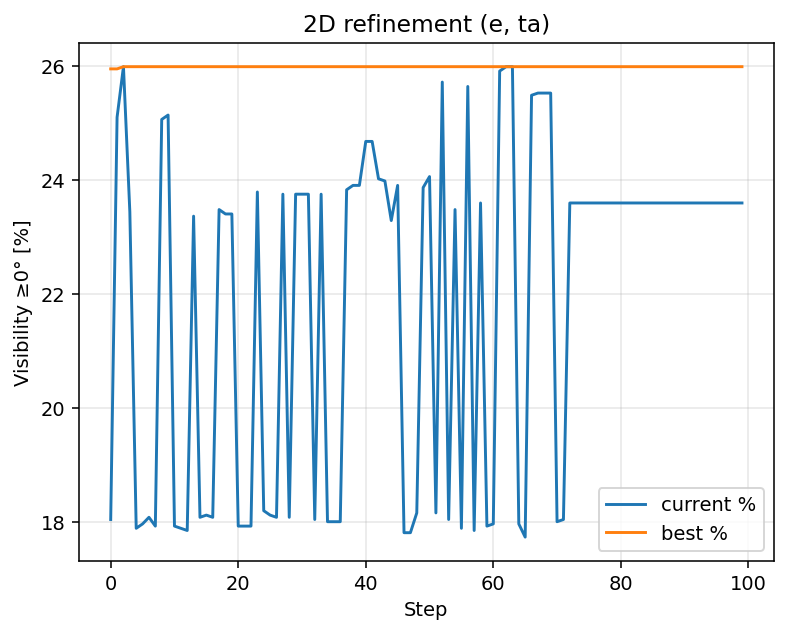
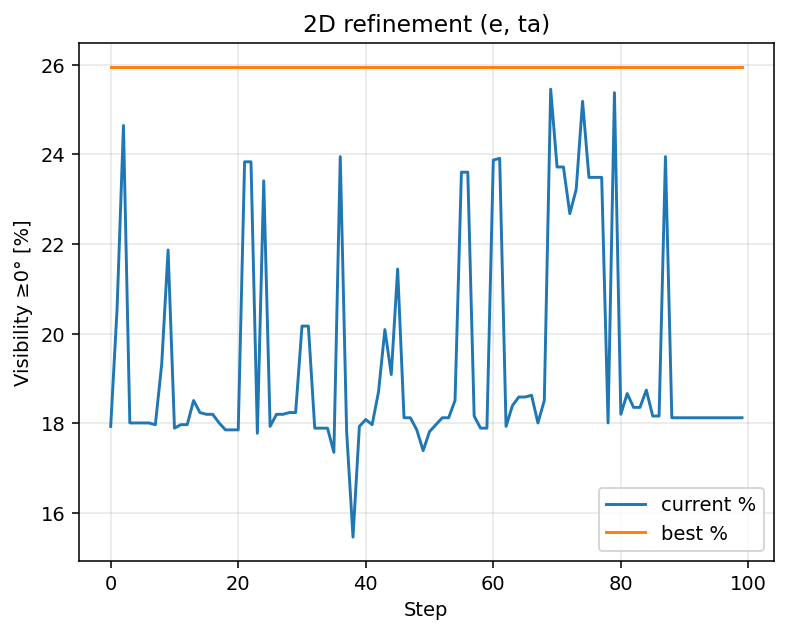
Everything works. Poor convergeance

diff --git a/search/main2.py b/search/main2.py
@@ -23,25 +23,6 @@ def main():
     opt = VisibilityOptimiser(sim)
 
     print("Optimising visibility for Sydney ground station...")
-    # A compact grid near ~100 trials:
-    # best, all_results = opt.optimize_grid(
-    #     gs_key="Sydney",
-    #     rp_range=(6000, 7500),  # rp in km above Earth radius
-    #     ra_range=(7500, 7500),  # ra in km above Earth radius
-    #     ta_range=(0, 360),      # true anomaly in degrees
-    #     raan_range=(-180, 180), # RAAN in degrees
-    #     inc_range=(30, 90),     # inclination in degrees
-    #     n_rp=10, 
-    #     n_ra=1,      # rp/ra grid (≈ choose 2 = 10 valid pairs when ra>rp)
-    #     n_ta=5,              # 2 true anomalies
-    #     n_raan=5,            # 2 RAAN samples
-    #     n_inc=3,             # 0°, 180° by default (adjust as needed)
-    #     max_orbits=1000,      # cap just in case
-    #     min_elev_deg=0,
-    #     key_prefix="G",
-    #     progress=True,
-    #     verbose=True,
-    # )
 
     # best, all_results = opt.optimize_grid(
     #     gs_key="Sydney",            # your GS key
@@ -58,44 +39,19 @@ def main():
     # )
     # print(best)
 
-
-    # best = {'key': 'custom', 
-    #         'params': {
-    #             'rp_alt_km': 6335.3, 
-    #             'ra_alt_km': 7500, 
-    #             'ta_deg': 213.80, 
-    #             'raan_deg': -38.43, 
-    #             'inc_deg': 90.12, 
-    #             'aop_deg': 54.92}, 
-    #         'percent_visible': 31.98,
-    #         'gs_key': 'Sydney',
-    # }
-
-    # best = {'key': 'custom', 
-    #         'params': {
-    #             'rp_alt_km': 7500, 
-    #             'ra_alt_km': 7500, 
-    #             'ta_deg': 0, 
-    #             'raan_deg': 0, 
-    #             'inc_deg': 33.0, 
-    #             'aop_deg': 90}, 
-    #         'percent_visible': 0,
-    #         'gs_key': 'Sydney',
-    # }
-
-    best = {'key': 'RES0004', 
+    best = {'key': 'custom', 
             'params': {'a_km': 12769.56, 'e': 0.0, 'ta_deg': 144.0, 'raan_deg': 0.0, 'inc_deg': 33.8688, 'aop_deg': 270.0}, 
             'gs_key': 'Sydney',
             'percent_visible': 25.954492865406866}
 
     # opt.create_and_set_best_satellite(best)
-
+    opt.create_and_set_best_satellite(best)
     sim.animate_3d(sat_keys=[best["key"]], step=10, camera_spin=True)
 
     best = opt.refine_2d(steps=100,
                 min_elev_deg=0.0,
                 lr_e = 0.01,   # set True to enforce AOP = RAAN + 90°
-                lr_ta = 0.5,
+                lr_ta = 0.1,
                 seed=123,
                 progress=True,
                 verbose=True,
